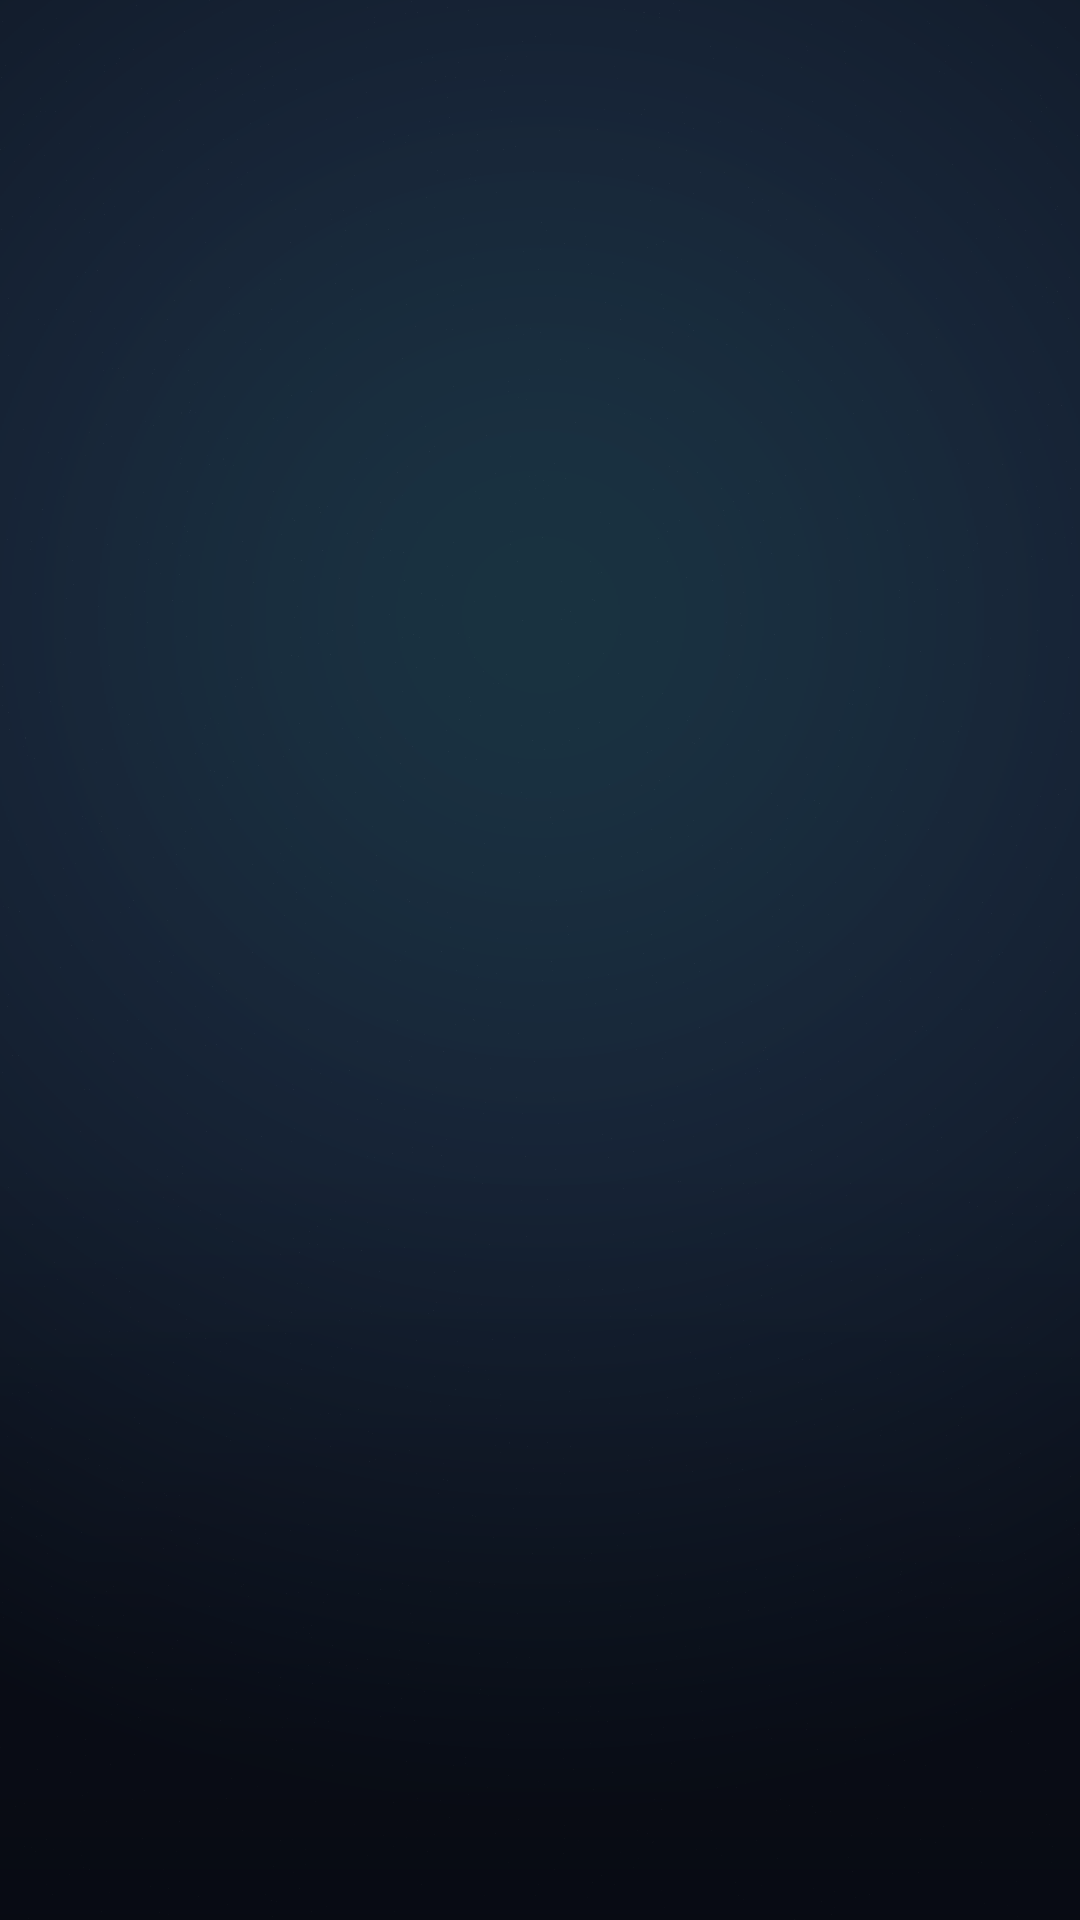
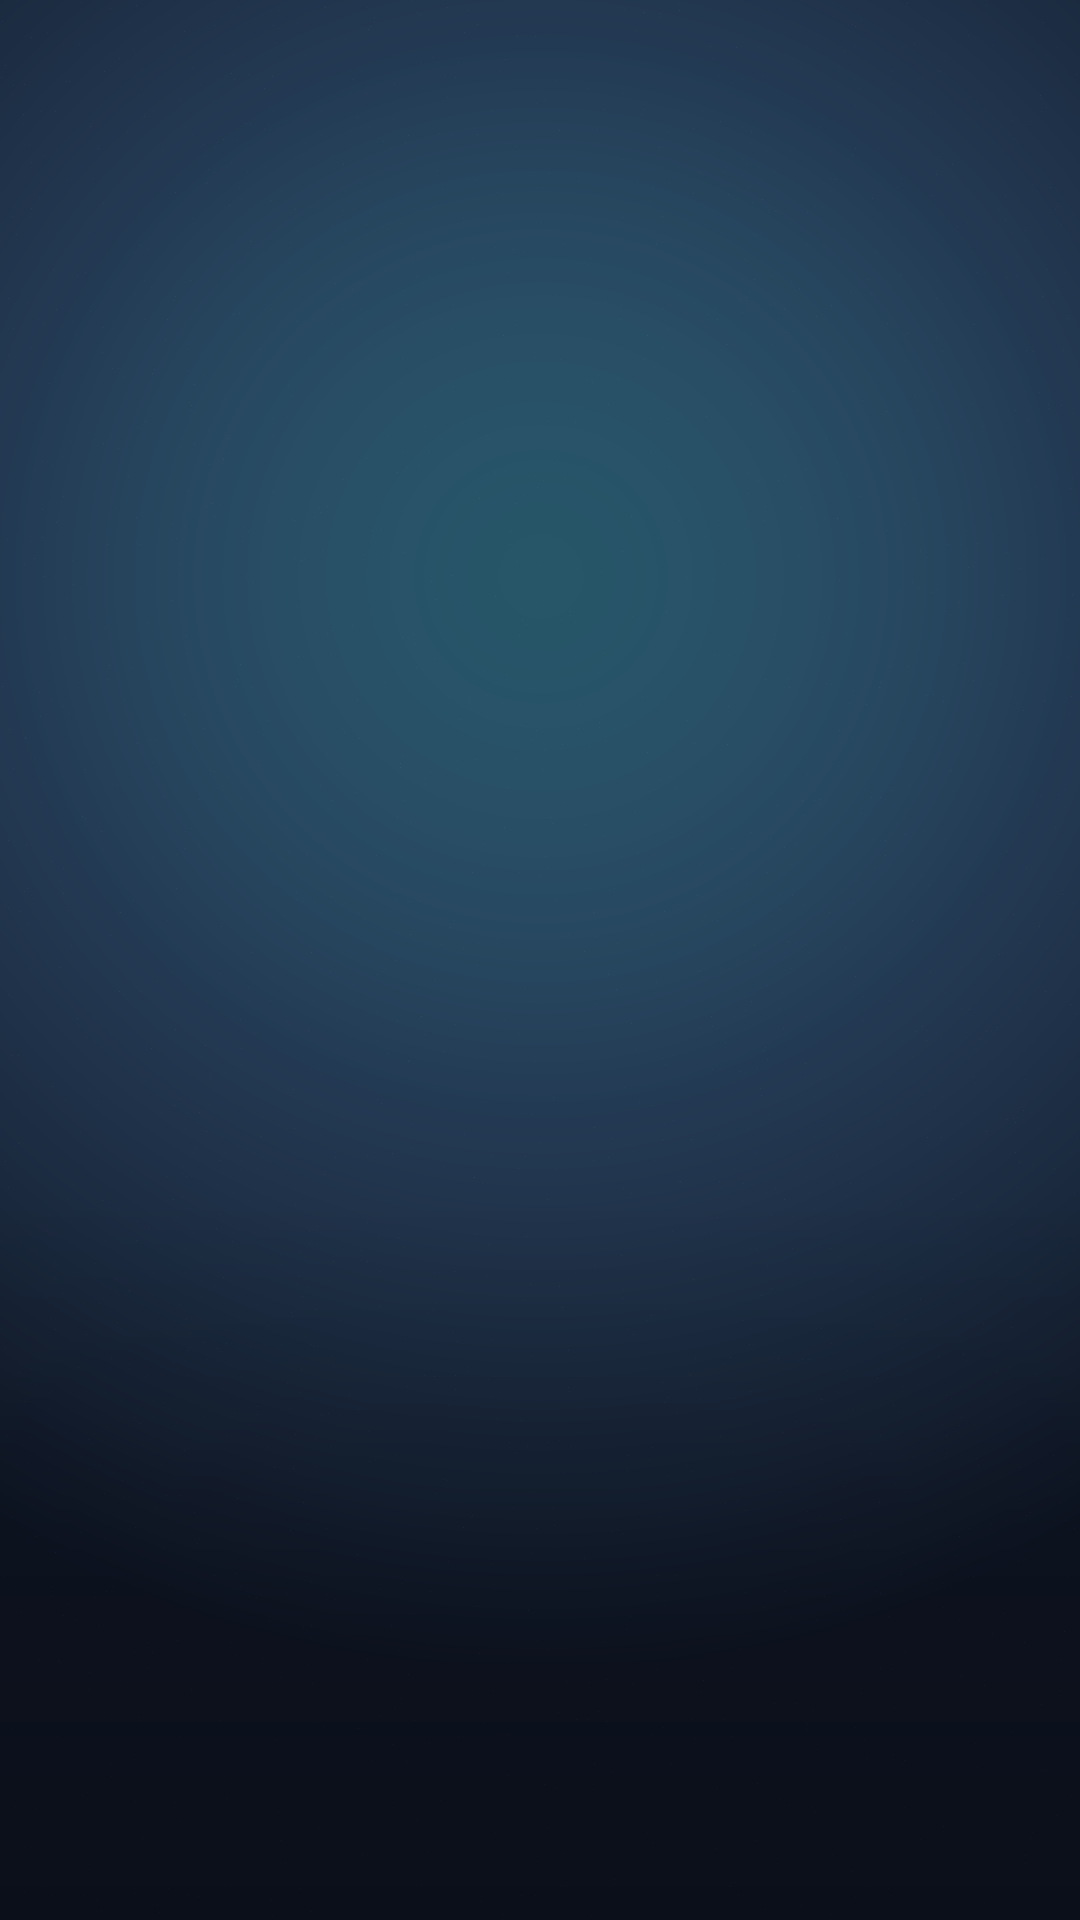
Imagem de fundo padrão ficava praticamente invisível (escurecida demais)
A imagem de fundo padrão (usada quando o painel não manda nenhuma —
contas de teste, etc.) estava ali, só que combinada com o
escurecimento pensado pra fotos quaisquer vindas do painel (opacidade
baixa de 0.2-0.35 + camada escura por cima), ficava quase indistinguível
da cor de fundo sólida — daí parecer que 'não veio imagem nenhuma'.

- Regenerada a imagem com mais brilho/contraste.
- Escurecimento mais leve especificamente quando é essa imagem padrão
  (o painel real continua com o escurecimento de sempre, que ajuda a
  legibilidade em fotos variadas) — em Home, MAC/login, Tela de
  Bloqueio, Perfis e Boas-vindas.

diff --git a/frontend/app/welcome.tsx b/frontend/app/welcome.tsx
@@ -174,7 +174,16 @@ export default function WelcomeScreen() {
           contentFit="cover"
         />
       )}
-      <View style={[StyleSheet.absoluteFillObject, styles.bgOverlay]} />
+      <View
+        style={[
+          StyleSheet.absoluteFillObject,
+          // A imagem padrão já foi feita pra ficar discreta — o
+          // escurecimento forte (feito pra garantir legibilidade em cima
+          // de fotos quaisquer vindas do painel) deixava ela quase
+          // imperceptível, parecendo que "não tinha fundo nenhum".
+          showBg ? styles.bgOverlay : styles.bgOverlayLight,
+        ]}
+      />
       <SafeAreaView style={styles.safe} edges={['top', 'bottom']}>
         <Pressable style={styles.tapArea} onPress={goNext}>
           <View style={styles.center}>
@@ -220,6 +229,7 @@ export default function WelcomeScreen() {
 const styles = StyleSheet.create({
   bg: { flex: 1, backgroundColor: colors.black },
   bgOverlay: { backgroundColor: 'rgba(11,15,26,0.55)' },
+  bgOverlayLight: { backgroundColor: 'rgba(11,15,26,0.2)' },
   safe: { flex: 1 },
   tapArea: { flex: 1, alignItems: 'center', justifyContent: 'center' },
   center: { alignItems: 'center', paddingHorizontal: spacing.xl, width: '100%' },

diff --git a/frontend/app/home.tsx b/frontend/app/home.tsx
@@ -694,9 +694,9 @@ export default function HomeScreen() {
       source={bg && !bgFailed ? { uri: bg } : require('@/assets/images/default-bg.png')}
       onError={() => setBgFailed(true)}
       style={styles.bg}
-      imageStyle={{ opacity: 0.35 }}
+      imageStyle={{ opacity: bg && !bgFailed ? 0.35 : 0.75 }}
     >
-      <View style={styles.overlay} />
+      <View style={[styles.overlay, !(bg && !bgFailed) && styles.overlayLight]} />
       <SafeAreaView style={styles.safe} edges={['top', 'bottom']}>
         <View style={{ flex: 1, flexDirection: isLandscape ? 'row' : 'column' }}>
           {isLandscape && (
@@ -1071,6 +1071,7 @@ function EmptyHome({ errorCode, onRetry }: { errorCode: string | null; onRetry: 
 const styles = StyleSheet.create({
   bg: { flex: 1, backgroundColor: colors.black },
   overlay: { ...StyleSheet.absoluteFillObject, backgroundColor: 'rgba(0,0,0,0.55)' },
+  overlayLight: { backgroundColor: 'rgba(0,0,0,0.15)' },
   safe: { flex: 1 },
   bottomNav: {
     flexGrow: 0,

diff --git a/frontend/app/index.tsx b/frontend/app/index.tsx
@@ -410,7 +410,7 @@ export default function MacLoginScreen() {
         source={bg && !bgFailed ? { uri: bg } : require('@/assets/images/default-bg.png')}
         onError={() => setBgFailed(true)}
         style={styles.bg}
-        imageStyle={{ opacity: 0.2 }}
+        imageStyle={{ opacity: bg && !bgFailed ? 0.2 : 0.75 }}
       >
         <SafeAreaView style={styles.safe} edges={['top', 'bottom']}>
           <View style={styles.lockWrap} testID="mac-lock-screen">
@@ -450,7 +450,7 @@ export default function MacLoginScreen() {
       source={bg && !bgFailed ? { uri: bg } : require('@/assets/images/default-bg.png')}
       onError={() => setBgFailed(true)}
       style={styles.bg}
-      imageStyle={{ opacity: 0.25 }}
+      imageStyle={{ opacity: bg && !bgFailed ? 0.25 : 0.75 }}
     >
       <SafeAreaView style={styles.safe} edges={['top', 'bottom']}>
         <View style={styles.logoWrap}>

diff --git a/frontend/app/profiles.tsx b/frontend/app/profiles.tsx
@@ -113,7 +113,7 @@ export default function ProfileSelectionScreen() {
       source={bg && !bgFailed ? { uri: bg } : require('@/assets/images/default-bg.png')}
       onError={() => setBgFailed(true)}
       style={styles.bg}
-      imageStyle={{ opacity: 0.2 }}
+      imageStyle={{ opacity: bg && !bgFailed ? 0.2 : 0.75 }}
     >
       <SafeAreaView style={styles.safe} edges={['top', 'bottom']}>
         <Text style={[styles.title, isTV && styles.titleTV]} testID="profile-select-title">
